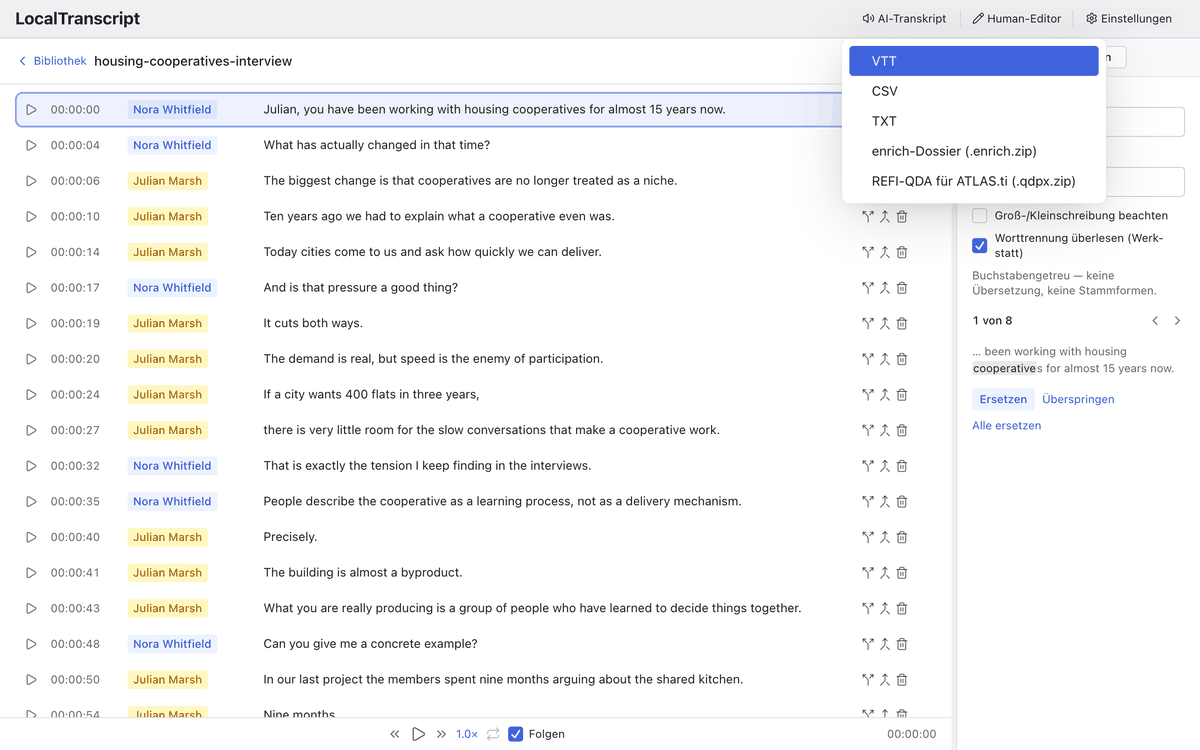
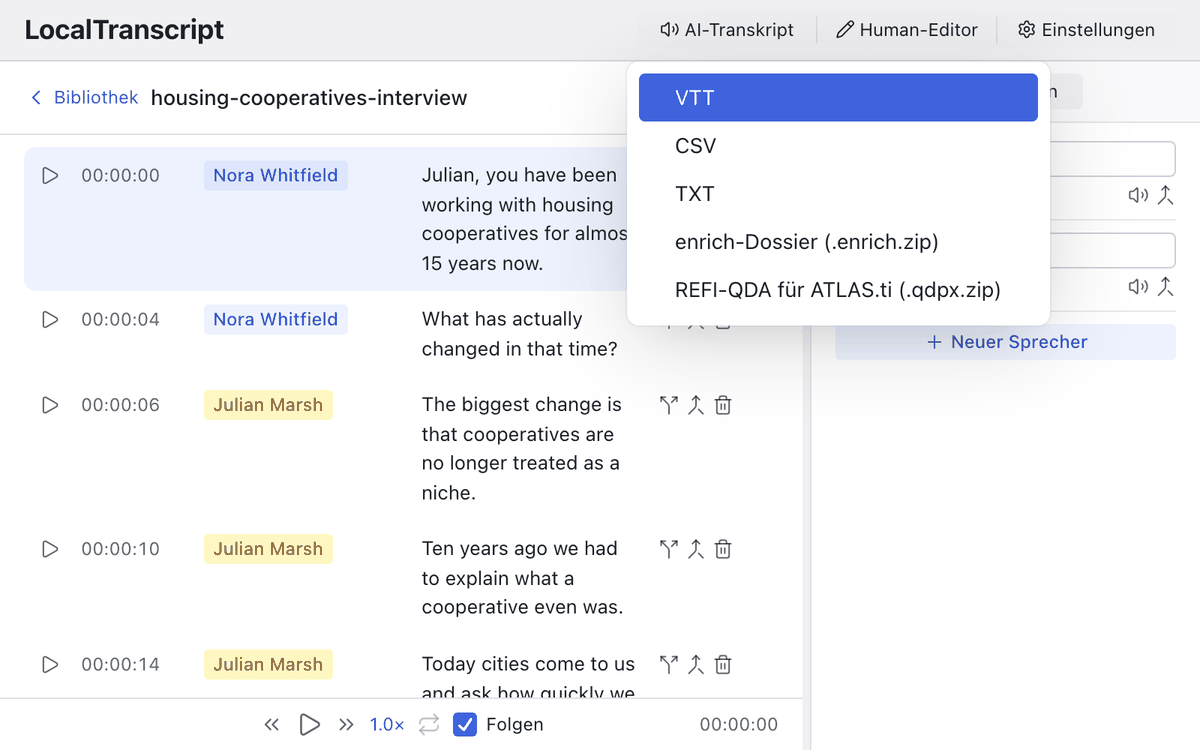
site: Anleitungsbilder aus dem kleinen Fenster, Feature-Block und Bildunterschriften raus
Vorschlag des Users: das App-Fenster für die Anleitung verkleinern.
Alle Schritt-Bilder jetzt aus einem 800 × 500 grossen Fenster — neben
dem Text bleibt damit jede Beschriftung lesbar; die 1280er-Bilder wurden
in der Spalte zu Fliegendreck. Das Hero-Bild bleibt gross.

Auf Wunsch entfernt: der ganze Feature-Block zwischen Hero und
Anleitung (vier Text-Bild-Paare — die Anleitung sagt dasselbe
gründlicher), die Bildunterschrift unter dem Hero-Fenster und die
Marke «Bildschirmfoto aus der App» an den Bildern. Mit dem Block
gehen 13 Schlüssel je Sprache und die Sprecher-Panel-Bilder.

Alle 142 verbleibenden Schlüssel in allen vier Sprachen; kein Bild
im Ordner ohne Verwendung, keins im HTML ohne Datei.

Claude-Session: https://claude.ai/code/session_01VhoDoDyamQwRzZ3dqypMTk

diff --git a/site/index.html b/site/index.html
@@ -78,21 +78,7 @@ h1 .initial{width:.92em;height:.92em;display:inline-block;vertical-align:-.1em;m
 .window .chrome{height:1.7rem;background:#ececee;border-bottom:1px solid var(--line);display:flex;align-items:center;gap:.4rem;padding-left:.75rem}
 .window .chrome i{width:.7rem;height:.7rem;border-radius:50%;background:#d6d8db;display:block}
 .window img{width:100%;aspect-ratio:16/10}
-.hero-cap{display:flex;justify-content:space-between;gap:1rem;flex-wrap:wrap;margin-top:.8rem;font-size:.84rem;color:var(--ink-2)}
 
-/* features */
-.feat{display:grid;grid-template-columns:1fr 1.35fr;gap:2.5rem;align-items:center;padding:3rem 0;border-top:1px solid var(--line)}
-.feat:first-of-type{border-top:0;padding-top:0}
-.feat.flip{grid-template-columns:1.35fr 1fr}
-.feat.flip .txt{order:2}
-@media (max-width:860px){.feat,.feat.flip{grid-template-columns:1fr;gap:1.25rem}.feat.flip .txt{order:0}}
-.feat h3{margin-bottom:.5rem;font-size:1.3rem}
-.feat p{color:var(--ink-2);font-size:1rem}
-.feat p+p{margin-top:.6rem}
-.clip{border:1px solid var(--line);border-radius:.55rem;overflow:hidden;background:var(--wash);aspect-ratio:16/10;position:relative}
-.clip img{width:100%;height:100%;object-fit:cover;object-position:top left}
-.clip .tag{position:absolute;right:.6rem;bottom:.6rem;font-size:.72rem;background:rgba(255,255,255,.9);border:1px solid var(--line);border-radius:.3rem;padding:.15rem .45rem;color:var(--ink-2)}
-kbd{font-variation-settings:'MONO' 1;font-size:.82em;border:1px solid var(--line);border-bottom-width:2px;border-radius:.25rem;padding:.05rem .35rem;background:var(--paper);color:var(--ink)}
 
 /* guide */
 .guide{border-top:1px solid var(--line)}
@@ -212,70 +198,9 @@ footer p{max-width:none}
       <img data-img="hero" src="img/hero-de.png" width="1600" height="1000"
            alt="LocalTranscript" data-alt="altHero">
     </div>
-    <div class="hero-cap">
-      <span data-t="heroCap"></span>
-      <span class="mono" data-t="heroFile"></span>
-    </div>
   </div>
 </section>
 
-<section>
-  <div class="wrap">
-
-    <div class="feat">
-      <div class="txt">
-        <h3 data-t="f1h"></h3>
-        <p data-t="f1a"></p>
-        <p data-t="f1b"></p>
-      </div>
-      <div class="clip">
-        <img data-img="batch" src="img/batch-de.png" width="1200" height="750"
-             alt="" data-alt="altBatch" loading="lazy">
-        <span class="tag" data-t="clipTag"></span>
-      </div>
-    </div>
-
-    <div class="feat flip">
-      <div class="txt">
-        <h3 data-t="f2h"></h3>
-        <p data-t="f2a"></p>
-        <p data-t="f2b"></p>
-      </div>
-      <div class="clip">
-        <img data-img="speakers" src="img/speakers-de.png" width="585" height="365"
-             alt="" data-alt="altSpeakers" loading="lazy">
-        <span class="tag" data-t="clipTag"></span>
-      </div>
-    </div>
-
-    <div class="feat">
-      <div class="txt">
-        <h3 data-t="f3h"></h3>
-        <p data-t="f3a"></p>
-        <p><span data-t="f3b"></span> <kbd>J</kbd> <kbd>K</kbd> <kbd>L</kbd> · <kbd>↑</kbd> <kbd>↓</kbd> · <kbd>⌥</kbd>+<kbd>J</kbd></p>
-      </div>
-      <div class="clip">
-        <img data-img="edit" src="img/edit-de.png" width="1100" height="687"
-             alt="" data-alt="altEdit" loading="lazy">
-        <span class="tag" data-t="clipTag"></span>
-      </div>
-    </div>
-
-    <div class="feat flip">
-      <div class="txt">
-        <h3 data-t="f4h"></h3>
-        <p data-t="f4a"></p>
-        <p data-t="f4b"></p>
-      </div>
-      <div class="clip">
-        <img data-img="export" src="img/export-de.png" width="1200" height="750"
-             alt="" data-alt="altExport" loading="lazy">
-        <span class="tag" data-t="clipTag"></span>
-      </div>
-    </div>
-
-  </div>
-</section>
 
 <section class="guide" id="guide">
   <div class="wrap">
@@ -300,7 +225,7 @@ footer p{max-width:none}
           <p data-t="g2b"></p>
         </div>
         <div class="shot"><img data-img="library" src="img/library-de.png"
-          width="1100" height="338" alt="" data-alt="altLibrary" loading="lazy"></div>
+          width="1200" height="262" alt="" data-alt="altLibrary" loading="lazy"></div>
       </div></li>
 
       <li><div class="body zweispaltig">
@@ -315,8 +240,8 @@ footer p{max-width:none}
             <li><b>Ctrl</b>+<b>L</b> <span data-t="k4"></span> · <b>Ctrl</b>+<b>X</b> <span data-t="k5"></span></li>
           </ul>
         </div>
-        <div class="shot"><img data-img="speakers" src="img/speakers-de.png"
-          width="585" height="365" alt="" data-alt="altSpeakers" loading="lazy"></div>
+        <div class="shot"><img data-img="edit" src="img/edit-de.png"
+          width="1200" height="750" alt="" data-alt="altEdit" loading="lazy"></div>
       </div></li>
 
       <li><div class="body zweispaltig">
@@ -353,7 +278,7 @@ footer p{max-width:none}
           <p style="margin-top:.8rem" data-t="g6c"></p>
         </div>
         <div class="shot"><img data-img="import" src="img/import-de.png"
-          width="1100" height="688" alt="" data-alt="altImport" loading="lazy"></div>
+          width="1200" height="750" alt="" data-alt="altImport" loading="lazy"></div>
       </div></li>
 
       <li><div class="body zweispaltig">
@@ -363,7 +288,7 @@ footer p{max-width:none}
           <p data-t="g7b"></p>
         </div>
         <div class="shot"><img data-img="settings" src="img/settings-de.png"
-          width="1400" height="875" alt="" data-alt="altSettings" loading="lazy"></div>
+          width="1200" height="750" alt="" data-alt="altSettings" loading="lazy"></div>
       </div></li>
     </ol>
     <p class="fn" data-t="shotNote"></p>
@@ -509,30 +434,14 @@ de:{
   h1:"LocalTranscript transkribiert Interviews, ohne dass die Aufnahme den Rechner verlässt.",
   lede:"Whisper und die Sprechertrennung laufen auf deinem Mac. Kein Konto, kein Server, kein Abo. Der Quellcode ist offen, die App ist kostenlos.",
   cta:"Herunterladen für macOS", ctaGuide:"Anleitung lesen", req:"Für Macs mit Apple Silicon · 2 GB · kostenlos und Open Source, AGPL-3.0",
-  heroCap:"Der Editor mit einem erfundenen Interview zu Wohngenossenschaften, synthetisiert mit macOS «say». Kein echtes Material auf dieser Seite.",
-  heroFile:"housing-cooperatives-interview.mp3 · 2 Sprecher · 02:02",
-  clipTag:"Bildschirmfoto aus der App",
   altHero:"Der Editor von LocalTranscript mit Transkript und Sprecherspalte",
   altBatch:"Batch-Liste mit einer laufenden und einer wartenden Datei",
-  altSpeakers:"Sprecher-Panel mit Namen und Segmentzahl",
   altEdit:"Segmentzeilen des Editors mit Transportleiste",
   altExport:"Geöffnetes Export-Menü mit allen Formaten",
   altLibrary:"Bibliotheksliste mit einem Transkript",
   altImport:"Human-Editor mit dem Knopf «Transkript importieren» oben links",
   altFind:"Panel Suchen und Ersetzen mit Trefferzähler",
   altSettings:"Einstellungen mit Speicherort, Lizenzen und Formaten",
-  f1h:"Ablegen und zuschauen",
-  f1a:"MP3, WAV, M4A, OGG oder FLAC in die Liste ziehen. Jede Datei wird ein Job mit Fortschritt, Restzeit und dem Text, der gerade erkannt wird.",
-  f1b:"Die Sprecherzahl gibst du exakt vor oder überlässt sie der App. Dateien laufen nacheinander; die Reihenfolge bleibt, wie du sie abgelegt hast.",
-  f2h:"Sprecher, die Namen haben",
-  f2a:"Jeder Sprecher hat ein Hörbeispiel, damit du weisst, wen du umbenennst. Zusammenführen, wenn die Trennung eine Stimme zweimal gefunden hat; neu zuweisen, wenn ein Segment falsch liegt.",
-  f2b:"Namen tauschen geht in einem Schritt für das ganze Transkript. So wird aus einem Klarnamen ein Pseudonym, bevor die Datei das Haus verlässt.",
-  f3h:"Bearbeiten wie in einem Audioprogramm",
-  f3a:"Der Player folgt dem Text, jedes Segment springt mit einem Tastendruck an den Anfang. Segmente teilen, verbinden, löschen. Jede Änderung wird gesichert und als Schnappschuss versioniert.",
-  f3b:"Shuttle wie in Audition, auch während du tippst:",
-  f4h:"Weiterarbeiten oder weitergeben",
-  f4a:"Direkt weiterarbeiten in QDA-Programmen, die REFI-QDA lesen — ATLAS.ti, NVivo, MAXQDA: Der Export .qdpx bringt das Transkript als Text- UND Audioquelle mit, einen Syncpunkt pro Äusserung und die Sprecher als Codes. Geprüft gegen ATLAS.ti 25.",
-  f4b:"Oder zum Weiterbearbeiten in LocalTranscript an eine Kolleg:in übergeben: Das enrich-Dossier .enrich.zip trägt Transkript und Audio in einer Datei, die Timecodes bleiben exakt, auf dem Weg hin und zurück geht nichts verloren. Dazu WebVTT, CSV und Text.",
 
   guideH:"Bedienungsanleitung",
   guideLede:"Von der Audiodatei bis zum Export in sieben Schritten. Dieselben Schritte stehen ausführlicher im README auf GitHub.",
@@ -627,30 +536,14 @@ en:{
   h1:"LocalTranscript transcribes interviews without the recording ever leaving your Mac.",
   lede:"Whisper and speaker separation run on your Mac. No account, no server, no subscription. The source is open and the app is free.",
   cta:"Download for macOS", ctaGuide:"Read the guide", req:"For Macs with Apple Silicon · 2 GB · free and open source, AGPL-3.0",
-  heroCap:"The editor with an invented interview on housing cooperatives, synthesised with macOS “say”. No real material anywhere on this page.",
-  heroFile:"housing-cooperatives-interview.mp3 · 2 speakers · 02:02",
-  clipTag:"Screenshot from the app",
   altHero:"The LocalTranscript editor with transcript and speaker panel",
   altBatch:"Batch list with one running and one queued file",
-  altSpeakers:"Speaker panel with names and segment counts",
   altEdit:"Editor segment rows with the transport bar",
   altExport:"Open export menu with all formats",
   altLibrary:"Library list with one transcript",
   altImport:"Human Editor with the “Import transcript” button at the top left",
   altFind:"Find and replace panel with match counter",
   altSettings:"Settings with storage location, licences and formats",
-  f1h:"Drop and watch",
-  f1a:"Drag MP3, WAV, M4A, OGG or FLAC into the list. Each file becomes a job with progress, time remaining and the text being recognised right now.",
-  f1b:"Set the number of speakers exactly or let the app decide. Files run one after another; the order stays as you dropped them.",
-  f2h:"Speakers with names",
-  f2a:"Every speaker has an audio sample, so you know whom you're renaming. Merge when separation found one voice twice; reassign when a segment landed wrong.",
-  f2b:"Swapping names is one step for the whole transcript. A real name becomes a pseudonym before the file leaves the building.",
-  f3h:"Edit like in an audio editor",
-  f3a:"The player follows the text; one key jumps to the start of any segment. Split, join and delete segments. Every change is saved and versioned as a snapshot.",
-  f3b:"Shuttle as in Audition, even while typing:",
-  f4h:"Carry on, or hand it over",
-  f4a:"Carry on directly in QDA software that reads REFI-QDA — ATLAS.ti, NVivo, MAXQDA: the .qdpx export carries the transcript as a text AND an audio source, one sync point per utterance and the speakers as codes. Verified against ATLAS.ti 25.",
-  f4b:"Or hand it to a colleague to keep editing in LocalTranscript: the enrich dossier .enrich.zip holds transcript and audio in one file, the timecodes stay exact, and nothing is lost on the way out or back. Plus WebVTT, CSV and plain text.",
 
   guideH:"User guide",
   guideLede:"From the audio file to the export in seven steps. The same steps are covered in more detail in the README on GitHub.",
@@ -745,30 +638,14 @@ fr:{
   h1:"LocalTranscript transcrit des entretiens sans que l'enregistrement ne quitte jamais votre Mac.",
   lede:"Whisper et la séparation des locuteurs tournent sur votre Mac. Pas de compte, pas de serveur, pas d'abonnement. Le code est ouvert, l'application est gratuite.",
   cta:"Télécharger pour macOS", ctaGuide:"Lire le guide", req:"Pour Mac avec Apple Silicon · 2 Go · gratuit et open source, AGPL-3.0",
-  heroCap:"L'éditeur avec un entretien fictif sur les coopératives d'habitation, synthétisé avec « say » de macOS. Aucun matériel réel sur cette page.",
-  heroFile:"housing-cooperatives-interview.mp3 · 2 locuteurs · 02:02",
-  clipTag:"Capture d'écran de l'application",
   altHero:"L'éditeur de LocalTranscript avec la transcription et la colonne des locuteurs",
   altBatch:"Liste de traitement avec un fichier en cours et un en attente",
-  altSpeakers:"Panneau des locuteurs avec noms et nombre de segments",
   altEdit:"Lignes de segments de l'éditeur avec la barre de lecture",
   altExport:"Menu d'export ouvert avec tous les formats",
   altLibrary:"Liste de la bibliothèque avec une transcription",
   altImport:"Éditeur humain avec le bouton « Importer une transcription » en haut à gauche",
   altFind:"Panneau Rechercher et remplacer avec compteur d'occurrences",
   altSettings:"Réglages avec emplacement, licences et formats",
-  f1h:"Déposer et regarder",
-  f1a:"Glissez MP3, WAV, M4A, OGG ou FLAC dans la liste. Chaque fichier devient une tâche avec progression, temps restant et le texte en cours de reconnaissance.",
-  f1b:"Fixez le nombre exact de locuteurs ou laissez l'application décider. Les fichiers se suivent ; l'ordre reste celui du dépôt.",
-  f2h:"Des locuteurs qui ont un nom",
-  f2a:"Chaque locuteur a un extrait audio, pour savoir qui vous renommez. Fusionnez quand la séparation a trouvé deux fois la même voix ; réattribuez quand un segment est mal placé.",
-  f2b:"Le remplacement des noms se fait en une étape pour toute la transcription. Un nom réel devient un pseudonyme avant que le fichier ne sorte.",
-  f3h:"Corriger comme dans un logiciel audio",
-  f3a:"Le lecteur suit le texte ; une touche saute au début de n'importe quel segment. Scinder, joindre, supprimer. Chaque modification est enregistrée et versionnée en instantané.",
-  f3b:"Navigation comme dans Audition, même en tapant :",
-  f4h:"Poursuivre ou transmettre",
-  f4a:"Poursuivre directement dans un logiciel QDA qui lit REFI-QDA — ATLAS.ti, NVivo, MAXQDA : l'export .qdpx porte la transcription comme source texte ET audio, un point de synchronisation par énoncé et les locuteurs comme codes. Vérifié avec ATLAS.ti 25.",
-  f4b:"Ou la confier à un·e collègue pour la corriger dans LocalTranscript : le dossier enrich .enrich.zip contient transcription et audio dans un seul fichier, les codes temporels restent exacts et rien ne se perd à l'aller ni au retour. Plus WebVTT, CSV et texte brut.",
 
   guideH:"Mode d'emploi",
   guideLede:"Du fichier audio à l'export en sept étapes. Les mêmes étapes sont détaillées dans le README sur GitHub.",
@@ -863,30 +740,14 @@ it:{
   h1:"LocalTranscript trascrive interviste senza che la registrazione lasci mai il tuo Mac.",
   lede:"Whisper e la separazione dei parlanti girano sul tuo Mac. Nessun account, nessun server, nessun abbonamento. Il codice è aperto, l'app è gratuita.",
   cta:"Scarica per macOS", ctaGuide:"Leggi la guida", req:"Per Mac con Apple Silicon · 2 GB · gratuita e open source, AGPL-3.0",
-  heroCap:"L'editor con un'intervista inventata sulle cooperative di abitazione, sintetizzata con « say » di macOS. Nessun materiale reale in questa pagina.",
-  heroFile:"housing-cooperatives-interview.mp3 · 2 parlanti · 02:02",
-  clipTag:"Schermata dell'app",
   altHero:"L'editor di LocalTranscript con trascrizione e colonna dei parlanti",
   altBatch:"Lista batch con un file in corso e uno in attesa",
-  altSpeakers:"Pannello dei parlanti con nomi e numero di segmenti",
   altEdit:"Righe dei segmenti dell'editor con la barra di riproduzione",
   altExport:"Menu di esportazione aperto con tutti i formati",
   altLibrary:"Elenco della libreria con una trascrizione",
   altImport:"Editor umano con il pulsante « Importa trascrizione » in alto a sinistra",
   altFind:"Pannello Cerca e sostituisci con contatore delle occorrenze",
   altSettings:"Impostazioni con posizione, licenze e formati",
-  f1h:"Trascina e guarda",
-  f1a:"Trascina MP3, WAV, M4A, OGG o FLAC nella lista. Ogni file diventa un lavoro con avanzamento, tempo residuo e il testo che viene riconosciuto in quel momento.",
-  f1b:"Imposta il numero esatto di parlanti o lascia decidere all'app. I file girano uno dopo l'altro; l'ordine resta quello del trascinamento.",
-  f2h:"Parlanti con un nome",
-  f2a:"Ogni parlante ha un campione audio, così sai chi stai rinominando. Unisci quando la separazione ha trovato due volte la stessa voce; riassegna quando un segmento è finito nel posto sbagliato.",
-  f2b:"Sostituire i nomi è un solo passaggio per tutta la trascrizione. Un nome reale diventa uno pseudonimo prima che il file esca.",
-  f3h:"Correggere come in un editor audio",
-  f3a:"Il lettore segue il testo; un tasto salta all'inizio di qualsiasi segmento. Dividi, unisci, elimina. Ogni modifica viene salvata e versionata come istantanea.",
-  f3b:"Navigazione come in Audition, anche mentre scrivi:",
-  f4h:"Proseguire o consegnare",
-  f4a:"Proseguire direttamente in un programma QDA che legge REFI-QDA — ATLAS.ti, NVivo, MAXQDA: l'esportazione .qdpx porta la trascrizione come sorgente testo E audio, un punto di sincronizzazione per enunciato e i parlanti come codici. Verificato con ATLAS.ti 25.",
-  f4b:"Oppure consegnarla a un o una collega perché continui a correggerla in LocalTranscript: il dossier enrich .enrich.zip contiene trascrizione e audio in un solo file, i codici temporali restano esatti e nulla si perde all'andata né al ritorno. Più WebVTT, CSV e testo.",
 
   guideH:"Guida all'uso",
   guideLede:"Dal file audio all'esportazione in sette passi. Gli stessi passi sono descritti in dettaglio nel README su GitHub.",

diff --git a/site/README.md b/site/README.md
@@ -37,8 +37,11 @@ Zeile.
 
 ## Bildschirmfotos
 
-`img/<motiv>-<sprache>.png`, neun Motive mal vier Sprachen — zu jedem
-Schritt der Anleitung eines. Beim
+`img/<motiv>-<sprache>.png`, acht Motive mal vier Sprachen — das
+Hero-Bild und zu jedem Schritt der Anleitung eines. Die Anleitungsbilder
+stammen aus einem auf 800 × 500 verkleinerten Fenster: neben dem Text
+bleibt so alles lesbar, was in einem 1280er-Fenster zu Fliegendreck
+würde (Vorschlag des Users). Beim
 Sprachwechsel tauscht das Skript die Quelle jedes `img[data-img]` aus,
 die Seite zeigt die App also immer in der gerade gewählten Sprache.
 
